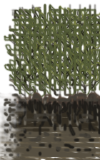
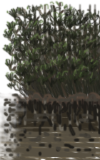
Minor test changes

diff --git a/www/ptest.php b/www/ptest.php
@@ -21,17 +21,21 @@ if (isset($_GET["smooth"])) {
 }
 else $smooth = rand(10,90);
 
-if (isset($_GET["lift"])) {
-	$tilt = $_GET["lift"];
-	if ($tilt!="n"&&$tilt!="s"&&$tilt!="e"&&$tilt!="w"&&$tilt!="ne"&&$tilt!="nw"&&$tilt!="se"&&$tilt!="sw") $tilt = NULL;
+if (isset($_GET["x"])) {
+	$xoff = setBint($_GET["x"], 0, 100000000, 0);
 }
-else $tilt = NULL;
+else $xoff = 0;
+
+if (isset($_GET["y"])) {
+	$yoff = setBint($_GET["y"], 0, 10000, 0);
+}
+else $yoff = 0;
 
 $bob = new Perlin($seed);
 $bill = new Perlin($seed+1);
 
 $space = 70;
-$gridsize = 30;
+$gridsize = 20;
 
 //echo "smooth: " . $smooth . "<br>";
 //echo "seed: " . $seed. "<br>";
@@ -41,48 +45,45 @@ $materials = array(
 	"gras",
 	"fer",
 	"sub",
-	"moss"
+	"mos"
 	);
+
+$counter = 0;
+$ranges = array();
+
+for ($i = 0; $i<sizeof($materials); $i++) {
+	$counter += rand(5,25);
+	if ($i==sizeof($materials)-1) $ranges[] = 101;
+	else $ranges[] = $counter;
+}
 
 $material = $materials[rand(0,sizeof($materials)-1)];
 
 $array = array();
 for($y=0; $y<$gridsize; $y+=1) {
 	for($x=0; $x<$gridsize; $x+=1) {
-		$num = $bob->noise($x,$y,0,$smooth);
-		$num2 = $bill->noise($x,$y,0,20);
+		$num = $bob->noise($x+$xoff,$y+$yoff,0,$smooth);
+		$num2 = $bill->noise($x+$xoff,$y+$yoff,0,20);
 		
 		$raw = ($num/2)+.5;
 		$raw2 = ($num2/2)+.5;
-		if ($tilt=="n"||$tilt=="ne"||$tilt=="nw") {
-			if ($y<($gridsize/2)) {
-				$raw += (($gridsize/2)-$y)/$gridsize;
-			}
-		}
-		if ($tilt=="s"||$tilt=="se"||$tilt=="sw") {
-			if ($y>($gridsize/2)) {
-				$raw += ($y-($gridsize/2))/$gridsize;
-			}
-		}
-		if ($tilt=="w"||$tilt=="nw"||$tilt=="sw") {
-			if ($x<($gridsize/2)) {
-				$raw += (($gridsize/2)-$x)/$gridsize;
-			}
-		}
-		if ($tilt=="e"||$tilt=="ne"||$tilt=="se") {
-			if ($x>($gridsize/2)) {
-				$raw += ($x-($gridsize/2))/$gridsize;
-			}
-		}
-		
+
 		if ($raw < 0) $raw = 0;
 		if ($raw > 1) $raw = 1;
 		if ($raw2 < 0) $raw2 = 0;
 		if ($raw2 > 1) $raw2 = 1;
 		
-		$raw2 = round($raw2*5);
+		$raw2 = round($raw2*100);
 		
-		$material = $materials[$raw2];
+		$r2 = 0;
+		foreach ($ranges as $key => $r) {
+			if ($r>$raw2) {
+				$r2 = $key;
+				break;
+			}
+		}
+		
+		$material = $materials[$r2];
 		
 		$array[] = array(
 			"x" => $x,
@@ -93,7 +94,7 @@ for($y=0; $y<$gridsize; $y+=1) {
 	}
 }
 
-$bottom = imagecreatetruecolor($gridsize*$space+100,$gridsize*$space);
+$bottom = imagecreatetruecolor($gridsize*$space,$gridsize*$space-120);
 //$color = imagecolorallocate($bottom, 50,50,30);
 //imagefill ($bottom, 0, 0, $color);
 
@@ -102,7 +103,7 @@ $variation = 100;
 foreach ($array as $info) {
 	$d = round($info["raw"]*$variation-($variation*0.6));
 	
-	$bottom = applyStamp($bottom, 'graphics/' . $info["material"] . '1.png', $info["x"]*$space+50, round(150+$info["y"]*$space-($info["raw"]*$variation*2.5)), $d);
+	$bottom = applyStamp($bottom, 'graphics/' . $info["material"] . '1.png', $info["x"]*$space+($info["y"]*2)-60, round(50+$info["y"]*$space-($info["raw"]*$variation*2.5)-($info["x"]*2)), $d);
 	$prevy = $info["y"];
 }
 
